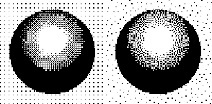
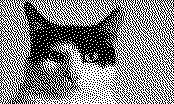
Fixed compile test, fixed examples

diff --git a/src/include/ImageDither.cpp b/src/include/ImageDither.cpp
@@ -18,8 +18,6 @@
 
 #include "Image.h"
 
-#if !defined(ARDUINO_INKPLATECOLOR) & !defined(ARDUINO_INKPLATE2)
-
 /**
  * @brief       ditherGetPixelBmp calculates dither for given pixel in bmp
  * images
@@ -39,13 +37,18 @@ uint8_t Image::ditherGetPixelBmp(uint32_t px, int i, int j, int w, bool paletted
 {
     if (paletted)
         px = ditherPalette[px];
-
+#if !defined(ARDUINO_INKPLATE2) & !defined(ARDUINO_INKPLATECOLOR)
     if (getDisplayMode() == INKPLATE_1BIT)
+#endif
         px = (uint16_t)px >> 1;
 
     uint8_t oldPixel = min((uint16_t)0xFF, (uint16_t)((uint16_t)ditherBuffer[0][i] + px));
 
+#if defined(ARDUINO_INKPLATE2) | defined(ARDUINO_INKPLATECOLOR)
+    uint8_t newPixel = oldPixel & B10000000;
+#else
     uint8_t newPixel = oldPixel & (getDisplayMode() == INKPLATE_1BIT ? B10000000 : B11100000);
+#endif
     uint8_t quantError = oldPixel - newPixel;
 
     ditherBuffer[1][i + 0] += (quantError * 5) >> 4;
@@ -89,13 +92,20 @@ uint8_t Image::ditherGetPixelJpeg(uint8_t px, int i, int j, int x, int y, int w,
         blockH = h;
     }
 
+#if !defined(ARDUINO_INKPLATE2) & !defined(ARDUINO_INKPLATECOLOR)
     if (getDisplayMode() == INKPLATE_1BIT)
+#endif
         px = (uint16_t)px >> 1;
 
     uint16_t oldPixel = min((uint16_t)0xFF, (uint16_t)((uint16_t)px + (uint16_t)jpegDitherBuffer[j + 1][i + 1] +
                                                        (j ? (uint16_t)0 : (uint16_t)ditherBuffer[0][x + i])));
 
+#if defined(ARDUINO_INKPLATE2) | defined(ARDUINO_INKPLATECOLOR)
+    uint8_t newPixel = oldPixel & B10000000;
+#else
     uint8_t newPixel = oldPixel & (getDisplayMode() == INKPLATE_1BIT ? B10000000 : B11100000);
+#endif
+    
     uint8_t quantError = oldPixel - newPixel;
 
     jpegDitherBuffer[j + 1 + 1][i + 0 + 1] += (quantError * 5) >> 4;
@@ -144,4 +154,3 @@ void Image::ditherSwapBlockJpeg(int x)
 
     jpegDitherBuffer[17][1] = 0;
 }
-#endif

diff --git a/src/include/Graphics.cpp b/src/include/Graphics.cpp
@@ -208,6 +208,20 @@ void Graphics::endWrite()
 {
 }
 
+/**
+ * @brief       getDisplayMode gets display mode
+ *
+ * @return      0 for black and white, 1 for grayscale
+ */
+uint8_t Graphics::getDisplayMode()
+{
+    #if defined(ARDUINO_INKPLATECOLOR) | defined(ARDUINO_INKPLATE2)
+    return 0;
+    #endif
+    return _displayMode;
+}
+
+
 #if !defined(ARDUINO_INKPLATECOLOR) && !defined(ARDUINO_INKPLATE2)
 
 /**
@@ -222,15 +236,6 @@ void Graphics::setDisplayMode(uint8_t _mode)
     _displayMode = _mode;
 }
 
-/**
- * @brief       getDisplayMode gets display mode
- *
- * @return      0 for black and white, 1 for grayscale
- */
-uint8_t Graphics::getDisplayMode()
-{
-    return _displayMode;
-}
 
 /**
  * @brief       selectDisplayMode selects display mode and sets memory

diff --git a/src/include/Shapes.h b/src/include/Shapes.h
@@ -38,8 +38,8 @@ class Shapes : virtual public Adafruit_GFX
 
 #if !defined(ARDUINO_INKPLATECOLOR) && !defined(ARDUINO_INKPLATE2)
     virtual void selectDisplayMode(uint8_t _mode) = 0;
-    virtual uint8_t getDisplayMode() = 0;
 #endif
+    virtual uint8_t getDisplayMode() = 0;
 
 #ifdef ARDUINO_INKPLATE2
     void drawTextWithShadow(int x, int y, const char *_c, uint8_t _color1, uint8_t color2);

diff --git a/src/include/Image.h b/src/include/Image.h
@@ -55,8 +55,8 @@ class Image : virtual public NetworkClient, virtual public Adafruit_GFX
 
 #if !defined(ARDUINO_INKPLATECOLOR) && !defined(ARDUINO_INKPLATE2)
     virtual void selectDisplayMode(uint8_t _mode) = 0;
-    virtual uint8_t getDisplayMode() = 0;
 #endif
+    virtual uint8_t getDisplayMode() = 0;
 
     virtual int16_t width() = 0;
     virtual int16_t height() = 0;

diff --git a/src/include/Graphics.h b/src/include/Graphics.h
@@ -59,8 +59,8 @@ class Graphics : public Shapes, public Image
 #if !defined(ARDUINO_INKPLATECOLOR) && !defined(ARDUINO_INKPLATE2)
     void selectDisplayMode(uint8_t _mode);
     void setDisplayMode(uint8_t _mode);
-    uint8_t getDisplayMode();
 #endif
+    uint8_t getDisplayMode();
 
     int16_t width() override;
     int16_t height() override;

diff --git a/src/include/ImageJPEG.cpp b/src/include/ImageJPEG.cpp
@@ -354,7 +354,7 @@ bool Image::drawJpegChunk(int16_t x, int16_t y, uint16_t w, uint16_t h, uint16_t
 
             uint8_t r = _RED(rgb), g = _GREEN(rgb), b = _BLUE(rgb);
 
-#if defined(ARDUINO_INKPLATECOLOR) | defined(ARDUINO_INKPLATE2)
+#if defined(ARDUINO_INKPLATECOLOR)
             if (invert)
             {
                 r = 255 - r;
